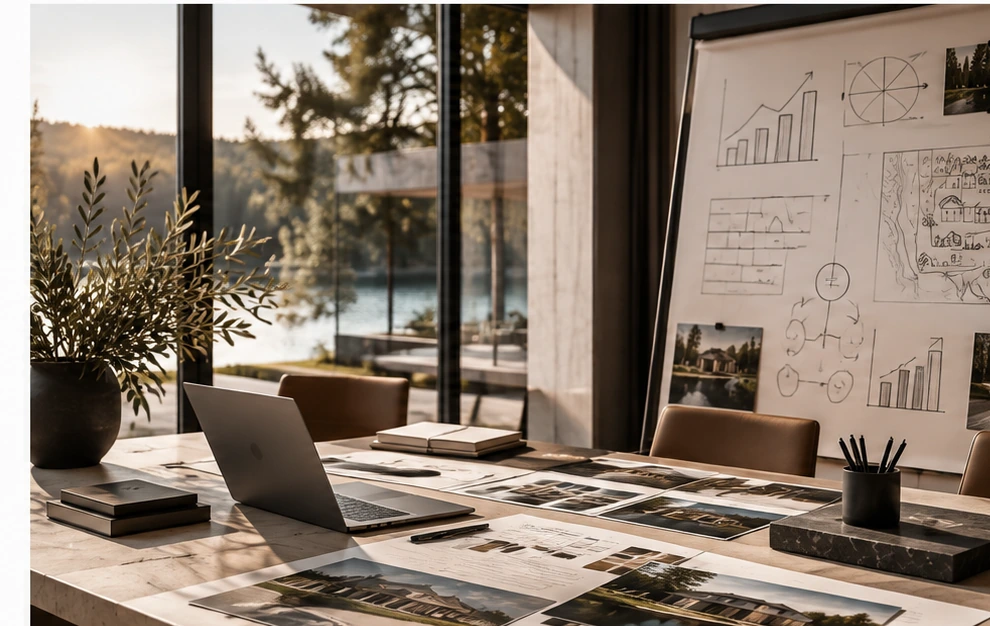
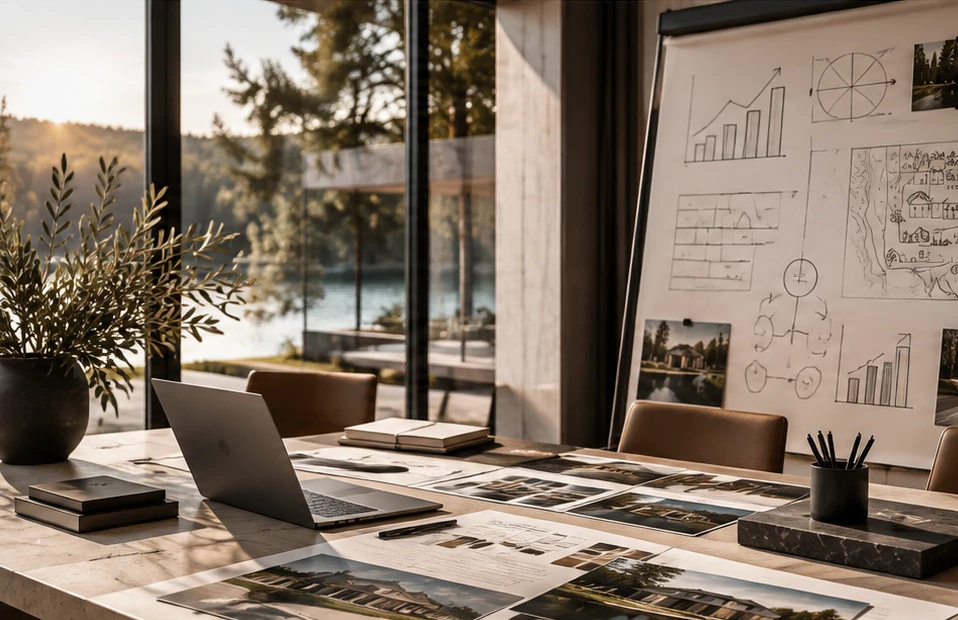
Use the final photo in the 'Кто мы' section
Point the About image at public/aure-agency-who-we-are-marketing.webp,
trim the white strip baked into its left/top edges (now 958x620), focus
the crop at 70% so the flipchart stays in frame, and drop the
placeholder.

Claude-Session: https://claude.ai/code/session_01PkP1x8frThUcmcgaPTpw5q

diff --git a/components/about.tsx b/components/about.tsx
@@ -2,8 +2,7 @@ import Image from 'next/image'
 import { SectionLabel } from './section-label'
 import { Reveal } from './reveal'
 
-// Replace with the final photo once it is ready (file in /public).
-const ABOUT_IMAGE_SRC = '/about-placeholder.jpg'
+const ABOUT_IMAGE_SRC = '/aure-agency-who-we-are-marketing.webp'
 const ABOUT_IMAGE_ALT =
   'Рабочее пространство отдела маркетинга: стол с ноутбуком, архитектурными планами и флипчартом со схемами'
 
@@ -38,7 +37,7 @@ export function About() {
               alt={ABOUT_IMAGE_ALT}
               fill
               sizes="(min-width: 768px) 52vw, 100vw"
-              className="object-cover"
+              className="object-cover object-[70%_50%]"
             />
           </div>
         </Reveal>
